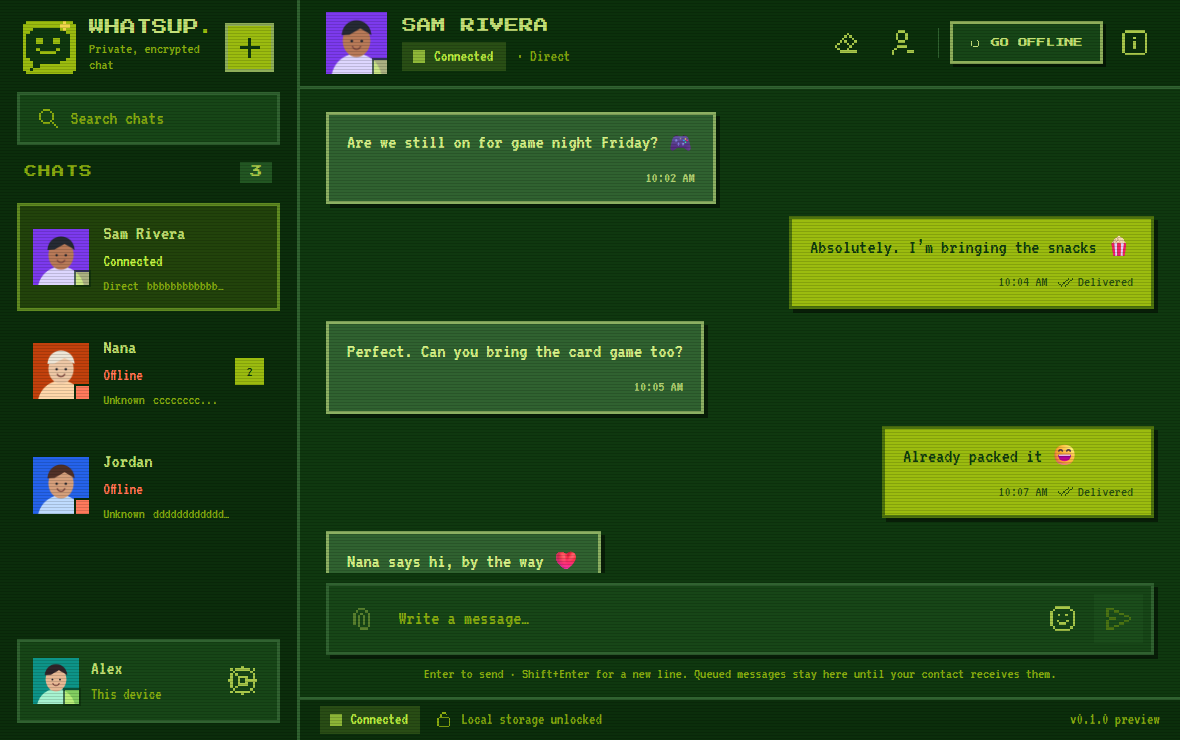
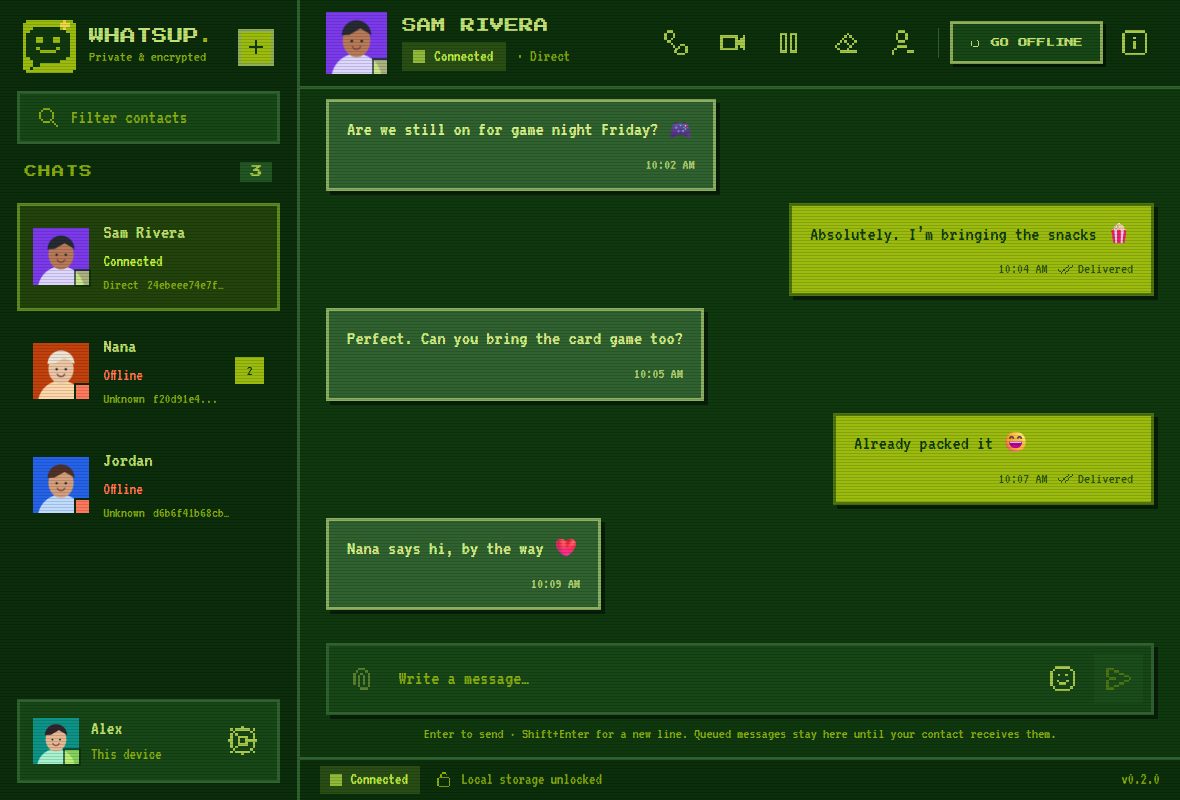
Refresh the README screenshots for 0.2.0
The screenshots now show the conversation header as it looks today, with
the voice call, video call and pause buttons, and the 0.2.0 version label.
The Neon City example uses GitHub Dark colors instead of Synthwave. The
fictional contacts get synthetic key fingerprints, and the window is a
little taller so every look fits the whole sample conversation.

diff --git a/frontend/tests/readme-screenshots.spec.ts b/frontend/tests/readme-screenshots.spec.ts
@@ -1,3 +1,4 @@
+import { createHash } from 'node:crypto';
 import { readFileSync } from 'node:fs';
 import { join } from 'node:path';
 import { test, type Page } from '@playwright/test';
@@ -5,6 +6,7 @@ import { unavailableStatus } from '../src/lib/backend';
 import { unavailablePairing } from '../src/lib/pairing';
 import type { ContactSummary } from '../src/lib/state/bridge';
 import type { ConversationMessage } from '../src/lib/messaging';
+import { defaultAppPreferences } from '../src/lib/state/preferences';
 import { serveDefaultAppPreferences } from './contact-events';
 
 test.skip(
@@ -35,9 +37,9 @@ function contact(
   unread = 0,
 ): ContactSummary {
   return {
-    peerProtocol: 0,
-    attachmentsSupported: false,
-    contactControlsSupported: false,
+    peerProtocol: 4,
+    attachmentsSupported: true,
+    contactControlsSupported: true,
     contactID,
     localName,
     unread,
@@ -45,7 +47,10 @@ function contact(
     state,
     path,
     revision: 1,
-    peerFingerprint: seed.repeat(64),
+    // A realistic-looking but synthetic key fingerprint for a fictional contact.
+    peerFingerprint: createHash('sha256')
+      .update(`readme screenshot ${seed}`)
+      .digest('hex'),
     peerDisplayName: '',
     canConnect: state !== 'connected',
     canSend: true,
@@ -69,7 +74,7 @@ const messages: ConversationMessage[] = lines.map(
 );
 
 async function setup(page: Page, look: Record<string, unknown>) {
-  await page.setViewportSize({ width: 1180, height: 740 });
+  await page.setViewportSize({ width: 1180, height: 800 });
   // Original synthetic illustrations, drawn only in the screenshot fixture.
   // They contain no photos, personal information, SVG or remote resources.
   const portraits = await page.evaluate(() =>
@@ -152,6 +157,33 @@ async function setup(page: Page, look: Record<string, unknown>) {
           })),
         },
       });
+    // Voice and video calls switched on, so the conversation header shows
+    // the call buttons as they look in everyday use.
+    if (method === 'GetAppPreferences')
+      return route.fulfill({
+        json: { ...defaultAppPreferences, voiceCalls: true, videoCalls: true },
+      });
+    if (method === 'GetCall') {
+      const peer = contacts.find((item) => item.contactID === args[0]);
+      return route.fulfill({
+        json: {
+          contactID: args[0],
+          state: 'idle',
+          callID: '',
+          peerRinging: false,
+          micMuted: false,
+          peerMicMuted: false,
+          activeSince: 0,
+          availability: peer?.state === 'connected' ? 'ready' : 'offline',
+          lastEnd: '',
+          lastOutgoing: false,
+          lastConnected: false,
+          video: false,
+          cameraOn: false,
+          peerCameraOn: false,
+        },
+      });
+    }
     if (await serveDefaultAppPreferences(route)) return;
     const selected = contacts.find((item) => item.contactID === args[0]);
     switch (method) {
@@ -200,7 +232,7 @@ async function setup(page: Page, look: Record<string, unknown>) {
 const looks = [
   ['bubbly-midnight', 'bubble', 'whatsup'],
   ['arcade-pocket-green', 'arcade', 'gameboy'],
-  ['neon-synthwave', 'neon', 'synthwave'],
+  ['neon-github-dark', 'neon', 'github-dark'],
   ['terminal-mainframe', 'terminal', 'matrix'],
   ['bubbly-github-light', 'bubble', 'github-light'],
 ] as const;

diff --git a/README.md b/README.md
@@ -7,9 +7,7 @@ and video calls.
 There is no account to create and no server that stores your messages. Every
 conversation is between exactly two devices; there are no group chats.
 
-
 ![The Appearance page in Settings](docs/images/appearance-settings.png)
-
 
 > Current version: **0.2.0**. The Windows installer is not code-signed and
 > updates are installed by hand. The [security information](SECURITY.md)
@@ -131,8 +129,8 @@ Screenshots use fictional contacts, conversations and profile illustrations.
 
 | | |
 | --- | --- |
-| ![Arcade look with Pocket Green colors](docs/images/arcade-pocket-green.png) | ![Neon City look with Synthwave colors](docs/images/neon-synthwave.png) |
-| **Arcade** with Pocket Green | **Neon City** with Synthwave |
+| ![Arcade look with Pocket Green colors](docs/images/arcade-pocket-green.png) | ![Neon City look with GitHub Dark colors](docs/images/neon-github-dark.png) |
+| **Arcade** with Pocket Green | **Neon City** with GitHub Dark |
 | ![Terminal look with Mainframe colors](docs/images/terminal-mainframe.png) | ![Bubbly look with GitHub Light colors](docs/images/bubbly-github-light.png) |
 | **Terminal** with Mainframe | **Bubbly** with GitHub Light |
 
